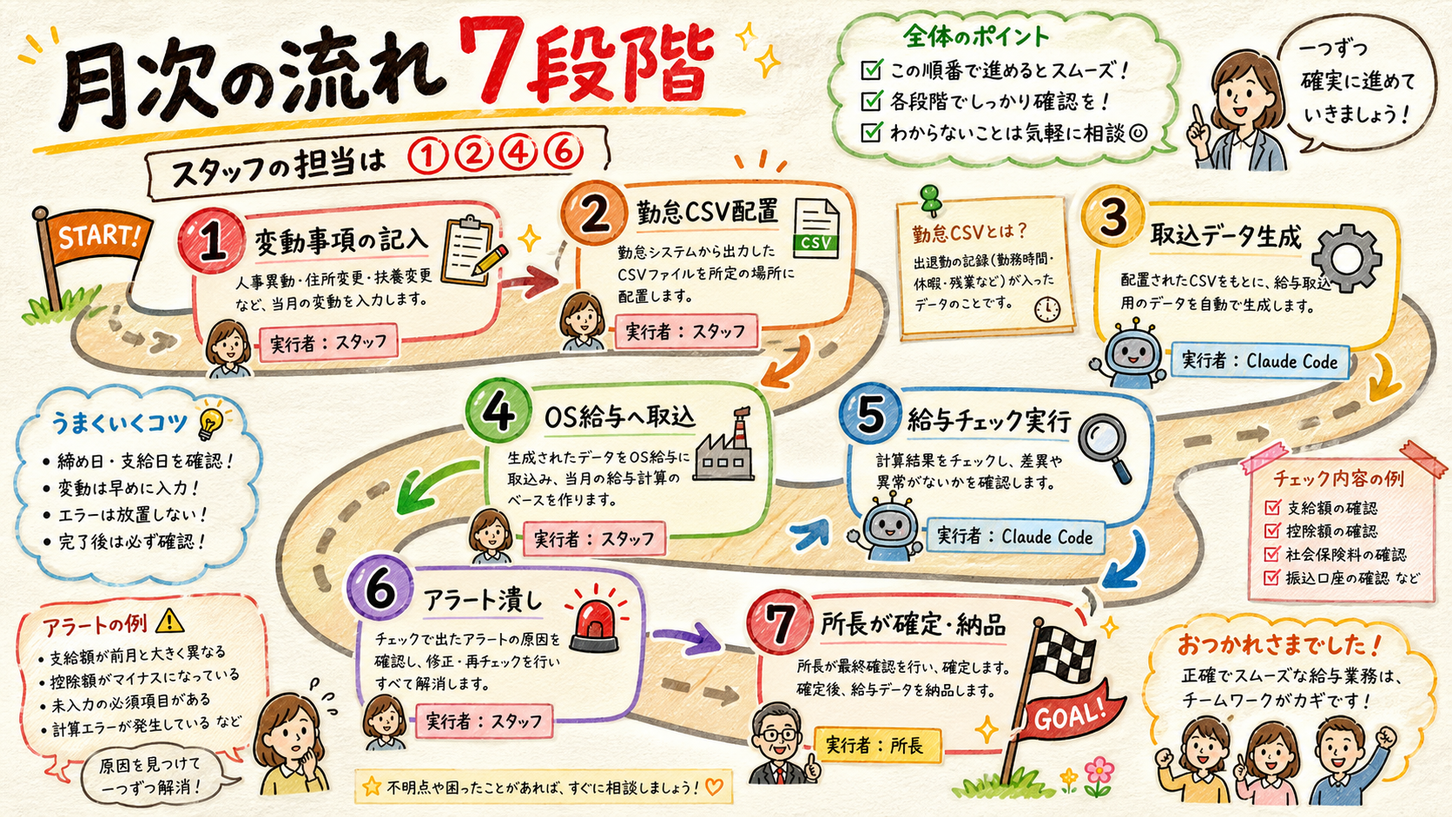
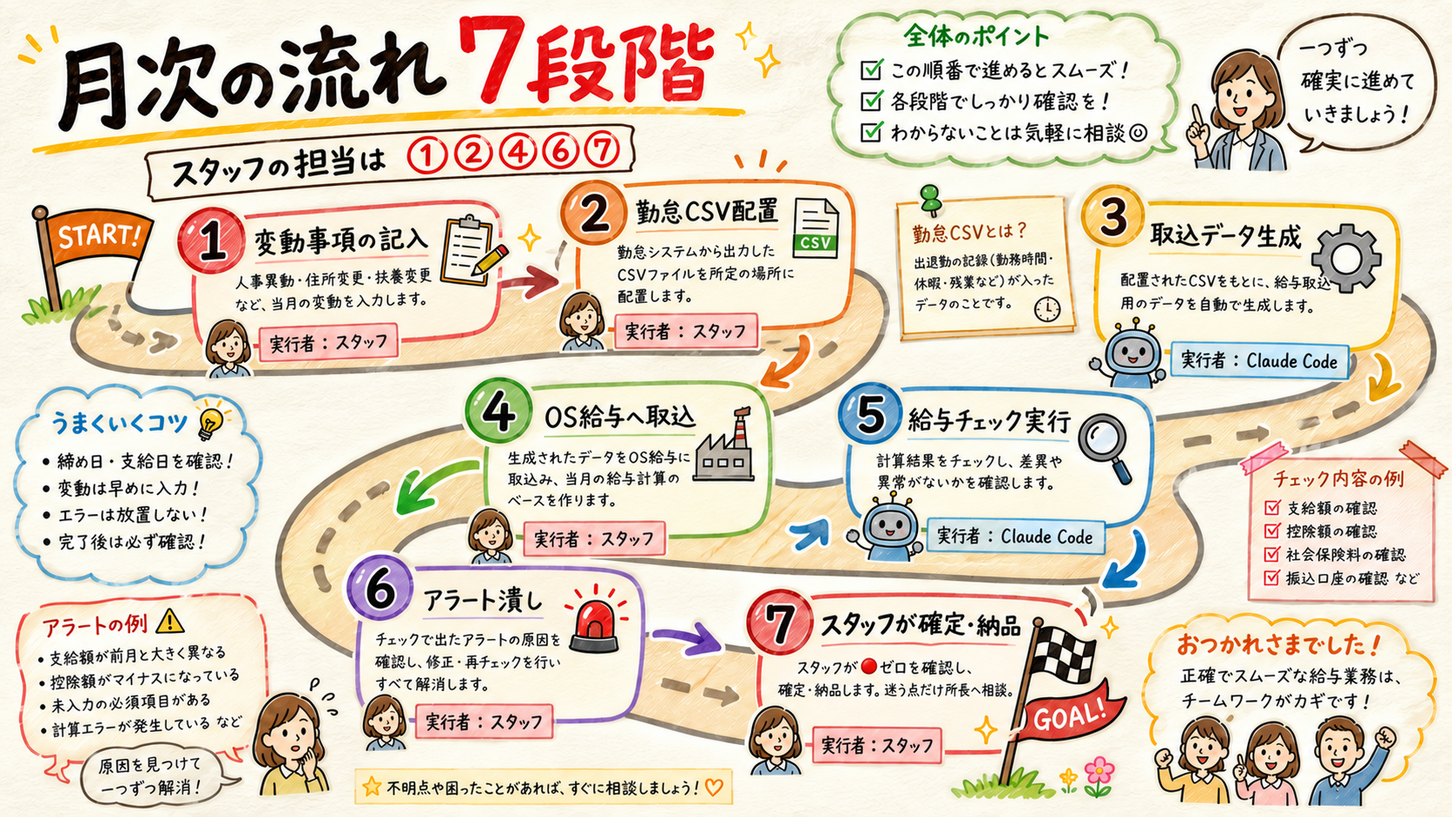
権限モデル反映: 確定・納品/入社台帳/会社設定はスタッフ裁量、所長はエンジンのみ。図4枚を現行担当へ更新
- 2026-08-31/09-01 所長方針（全体地図 §5.6）と 2026-09-17 改定（config はスタッフ裁量）を両ページに反映
- 承認は担当者の確認記録（🔴承認待ち）、給与計算報告書の生成拒否ゲート、複数法人の台帳指定を追記
- 旧版の担当名が描き込まれた図（全体像・入社の順番・7ステップ×2）を img2img で修正

diff --git a/claude-code-manual/index.html b/claude-code-manual/index.html
@@ -153,8 +153,8 @@
       <h2>TL;DR</h2>
       <ol>
         <li>作業は必ずデスクトップアプリの<strong>「Code」タブ</strong>で、<strong>担当会社のフォルダを開いてから</strong>始める。Chat タブではハーネスが動かない。</li>
-        <li>月次は 7 段階。スタッフの担当は「<strong>変動事項の記入 → 勤怠 CSV 配置 → チェック実行 → アラート潰し</strong>」の 4 つ。</li>
-        <li>🔴 の判断に迷ったら<strong>推測せず所長へエスカレーション</strong>。台帳の削除・設定ファイルの書き換えは禁止。</li>
+        <li>月次は 7 段階。<strong>確定・納品まで担当スタッフが回す</strong>（変動事項の記入 → 勤怠 CSV 配置 → 取込 → チェック依頼 → アラート潰し → 確定・納品）。所長が出るのは判断に迷う事項だけ。</li>
+        <li>🔴 の判断に迷ったら<strong>推測せず所長へエスカレーション</strong>。台帳の削除は禁止。エンジン（scripts/）はスタッフの Claude Code からは仕組み上書き換えられない。会社設定（config/company.yaml）は CC に頼んで更新してよい。</li>
       </ol>
     </div>
   </header>
@@ -163,7 +163,7 @@
     <h2><span class="num">01</span>ハーネスの役割 — 「計算」はしない、「確認」を支える</h2>
     <p class="sub">まず前提として、このツールが何をして・何をしないかを押さえます。</p>
     <figure>
-      <img src="images/concept-01-01.png" alt="ハーネスは伴走ツール — 計算はOS給与、確認を支えるのがハーネス、最終判断は人(所長)という役割分担の図解">
+      <img src="images/concept-01-01.png" alt="ハーネスは伴走ツール — 計算はOS給与、確認を支えるのがハーネス、最終判断は人という役割分担の図解">
       <figcaption>ハーネスは置き換えるのではなく「隣で支える伴走者」。計算は OS 給与、最終判断は人が担う</figcaption>
     </figure>
     <p>給与計算そのものは、これまでどおり<strong>給与計算ソフト（OS給与）</strong>が行います。ハーネスの役割は、その結果を<strong>チェック（レビュー）</strong>することと、人の記憶に頼りがちな管理（変動事項の反映確認・有給・随時改定）を<strong>台帳で支える</strong>ことです。</p>
@@ -173,8 +173,8 @@
       <tbody>
         <tr><td>OS給与</td><td>給与計算の本体（支給額・控除額の計算）</td></tr>
         <tr><td>ハーネス（Claude Code）</td><td>計算結果のチェック、変動事項・有給・随時改定の台帳管理、アラート出力</td></tr>
-        <tr class="pick"><td>スタッフ（あなた）</td><td>変動事項の記入、勤怠データの配置、チェックの実行、アラートの確認</td></tr>
-        <tr><td>所長</td><td>判断が必要な事項の決定、最終確定・納品</td></tr>
+        <tr class="pick"><td>スタッフ（あなた）</td><td>変動事項の記入、従業員台帳の作成・更新（CCに依頼）、勤怠データの配置、チェックの実行、アラートの確認、変動の確認記録、確定・納品</td></tr>
+        <tr><td>所長</td><td>判断に迷う事項の決定（エスカレーション対応）と、エンジン（scripts/）の保守。月次のルーティンや会社設定の更新には関与しない</td></tr>
       </tbody>
     </table>
   </section>
@@ -199,7 +199,7 @@
     <ul>
       <li>Claude デスクトップアプリを起動する</li>
       <li>上部の「<strong>Code</strong>」タブを選ぶ</li>
-      <li><strong>担当会社のフォルダ</strong>を開く（最近開いたフォルダから選べます）</li>
+      <li><strong>担当会社のフォルダ</strong>を開く（最近開いたフォルダから選べます）。開く場所は顧問先フォルダの <strong>07.給与・賞与</strong>（CLAUDE.md が置いてある階層）。その中の「◯◯-payroll-db」を開いても会社ルールは効きません</li>
       <li>画面にいま開いているフォルダ名が出ているので、<strong>会社名が正しいか確認</strong>してから作業を始める</li>
     </ul>
   </section>
@@ -208,7 +208,7 @@
     <h2><span class="num">03</span>初回だけの準備 — フォルダを開いて「信頼」する</h2>
     <p class="sub">各会社フォルダを初めて開くときだけ、1 回だけの確認があります。</p>
     <p>初めて会社フォルダを開くと、「このワークスペースを信頼しますか？」という確認画面が表示されます。ここで<strong>「信頼する」を選んでください</strong>。これはフォルダに入っているチェック機能・安全装置を有効にするための確認で、許可しないとハーネスが動きません。表示されるのは会社フォルダごとに初回の 1 回だけです。</p>
-    <div class="callout"><p><strong>1 社 1 フォルダが鉄則です。</strong>A 社の作業は A 社のフォルダで、B 社の作業は B 社のフォルダで行います。会社をまたいで作業すると、顧問先間の情報が混ざる事故につながります。</p></div>
+    <div class="callout"><p><strong>1 社 1 フォルダが鉄則です。</strong>A 社の作業は A 社のフォルダで、B 社の作業は B 社のフォルダで行います。会社をまたいで作業すると、顧問先間の情報が混ざる事故につながります。</p><p>1 つの顧問先に法人が 2 つある場合（例: 医療法人と関連会社）は、同じフォルダの中に法人ごとの台帳「◯◯-payroll-db」が並んでいます。依頼するときは<strong>「Kwork の 8 月分をチェックして」のように法人名を添えてください</strong>。両方の法人が 🔴 ゼロになって初めて、その顧問先の月次は完了です。</p></div>
     <p>アプリへのログインや契約プランは事務所側で設定済みです。確認画面が何度も出る・エラーで先に進めない場合は、自分で対処せず所長へ連絡してください。</p>
   </section>
 
@@ -216,8 +216,8 @@
     <h2><span class="num">04</span>月次の流れ — 7 段階を順番に</h2>
     <p class="sub">1 か月の給与業務は、この 7 段階で回します（詳細の正本は <code class="inline">docs/月次運用フロー.md</code>）。</p>
     <figure>
-      <img src="images/concept-04-01.png" alt="変動事項の記入から所長の確定・納品まで、月次給与業務7段階のロードマップ図解">
-      <figcaption>月次の 7 段階ロードマップ。スタッフの担当は ①②④⑥、③⑤は Claude Code、⑦は所長</figcaption>
+      <img src="images/concept-04-01.png" alt="変動事項の記入から確定・納品まで、月次給与業務7段階のロードマップ図解">
+      <figcaption>月次の 7 段階ロードマップ。③⑤は Claude Code、それ以外は担当スタッフ。⑦の確定・納品も担当スタッフが行い、所長は迷ったときの相談先</figcaption>
     </figure>
     <table class="table">
       <thead><tr><th>段階</th><th>実行者</th><th>やること</th></tr></thead>
@@ -227,13 +227,13 @@
         <tr><td>[3]</td><td>Claude Code</td><td>取込用データを生成する（スクリプトが自動で処理）</td></tr>
         <tr><td>[4]</td><td>スタッフ</td><td>生成されたデータを <strong>OS給与へ一括取込</strong>（マスタ変更は画面から入力）</td></tr>
         <tr class="pick"><td>[5]</td><td>Claude Code</td><td><strong>給与チェックを実行</strong>し、アラート一覧を出力する</td></tr>
-        <tr><td>[6]</td><td>スタッフ + 所長</td><td><strong>アラート一覧_YYYY-MM.xlsx</strong> の 🔴 🟡 📋 と照会事項をすべて潰す</td></tr>
-        <tr><td>[7]</td><td>所長</td><td>確定・納品</td></tr>
+        <tr><td>[6]</td><td>スタッフ</td><td><strong>アラート一覧_YYYY-MM.xlsx</strong> の 🔴 🟡 📋 と照会事項をすべて潰す（来月以降に効く変動は、内容を確認した担当者が承認欄に名前と日付を記録）。判断に迷うものだけ所長へ</td></tr>
+        <tr><td>[7]</td><td>担当スタッフ</td><td>🔴 ゼロを確認して確定・納品。納品用の<strong>給与計算報告書</strong>は CC に頼むと生成されるが、🔴 が 1 件でも残ると作られない</td></tr>
       </tbody>
     </table>
     <p>入社・退職があった月は、次の 2 点だけ特別扱いです:</p>
     <ul>
-      <li><strong>入社</strong>: まず所長に台帳作成を依頼 → 変動事項シートに「入社」行を記入 → OS給与にマスタ登録</li>
+      <li><strong>入社</strong>: まず雇用契約書（労働条件通知書）を CC に渡して従業員台帳を作成（所長の事前確認は不要。契約内容に迷う点があるときだけ相談） → 変動事項シートに「入社」行を記入 → OS給与にマスタ登録</li>
       <li><strong>退職</strong>: 台帳は<strong>絶対に削除しない</strong>。状態を「退職」に変えるだけ（源泉徴収票・離職票の根拠として保管し続けます）</li>
     </ul>
   </section>
@@ -242,7 +242,7 @@
     <h2><span class="num">05</span>スタッフがやる操作 — 頼み方とコマンド</h2>
     <p class="sub">操作は「日本語で頼む」が基本です。コマンドは覚えなくて構いません。</p>
     <p>Code タブで会社フォルダを開いたら、やってほしいことをそのまま日本語で入力します。例:</p>
-    <div class="quote">「2026年8月分の給与チェックを実行して」<br>「変動事項シートの内容を台帳に取り込んで」</div>
+    <div class="quote">「2026年8月分の給与チェックを実行して」<br>「変動事項シートの内容を台帳に取り込んで」<br>「◯◯さんの入社、確認したので記録して」（承認欄に名前と日付が入る）<br>「2026年8月分を確定して」「2026年8月分の給与計算報告書を作って」</div>
     <p>Claude Code が対応するスクリプトを実行し、結果と次にやることを日本語で返します。参考までに、裏で動いている代表的なコマンドは次の 2 つです:</p>
     <pre><span class="c"># 月次の給与チェック（all のほか payroll / ledger 単体も可）</span>
 <span class="n">PAYROLL_DB</span>=&lt;台帳パス&gt; <span class="k">ruby</span> scripts/payroll_check.rb <span class="s">all 2026-08</span>
@@ -265,7 +265,7 @@
         <tr><td class="lv-h">🔴 要対応</td><td>金額や手続きに影響がある指摘</td><td>内容を確認。<strong>自分で判断できるものだけ</strong>対応し、迷ったら所長へエスカレーション</td></tr>
         <tr><td class="lv-m">🟡 注意</td><td>読んで確認すればよい注意喚起</td><td>スタッフが内容を確認して消し込む</td></tr>
         <tr><td class="lv-m">📋 未整備</td><td>台帳側のデータ不足</td><td>スタッフが不足データを台帳・シートに補充する</td></tr>
-        <tr><td>照会</td><td>顧客・所内に確認が必要な事項</td><td>スタッフが確認して回答を記入。<strong>来月以降に影響する内容なら所長の承認が必須</strong></td></tr>
+        <tr><td>照会</td><td>顧客・所内に確認が必要な事項</td><td>スタッフが確認して回答を記入し、変動事項シートにも登録。<strong>来月以降に影響する内容は、内容を確認した担当者の記録（名前＋日付）が承認欄に入るまで 🔴「承認待ち」が残る</strong>（承認者は担当スタッフでよい。迷うものだけ所長へ）</td></tr>
       </tbody>
     </table>
   </section>
@@ -279,7 +279,7 @@
     </figure>
     <ul>
       <li>🔴 の内容が<strong>自分では判断できない</strong>とき</li>
-      <li>照会の結果、<strong>昇給・入退社・休職・育休など来月以降に影響する内容</strong>だと分かったとき（所長の承認が必須）</li>
+      <li>照会の結果分かった<strong>昇給・入退社・休職・育休などの内容を、自分では確認しきれない・妥当か迷う</strong>とき（確認できたなら自分で承認欄に記録してよい）</li>
       <li>変動事項シートの<strong>種別リストにない出来事</strong>が起きたとき</li>
       <li>エラーや確認画面が<strong>繰り返し出て先に進めない</strong>とき</li>
     </ul>
@@ -293,10 +293,10 @@
       <thead><tr><th>禁止事項</th><th>理由</th></tr></thead>
       <tbody>
         <tr><td>Chat / Cowork タブで給与業務をする</td><td>会社のルール・チェック機能を通らない回答が返り、誤った処理の元になる</td></tr>
-        <tr><td>設定ファイル（<code class="inline">config/company.yaml</code> など）を書き換える</td><td>会社の就業規則・料率のパラメータ。変更は所長の判断事項</td></tr>
+        <tr><td>エンジン（<code class="inline">scripts/</code> 配下）を書き換える</td><td>チェックの仕組みそのもの。変更は所長の判断事項（スタッフの Claude Code からは編集が拒否される設定になっている。拒否されたら所長へ）。会社設定（<code class="inline">config/company.yaml</code>）は CC に頼んで更新してよく、値の解釈に迷うときだけ所長へ相談</td></tr>
         <tr><td>退職者の台帳を削除する</td><td>源泉徴収票・離職票の根拠として永続保管が必要。状態を「退職」に変えるだけにする</td></tr>
         <tr><td>別会社のフォルダで作業・実行する</td><td>顧問先間の情報混在につながる。1 社 1 フォルダが鉄則</td></tr>
-        <tr><td>アラートが残ったまま確定依頼を出す</td><td>[6] のアラート潰しが完了条件。未消化のまま [7] に進まない</td></tr>
+        <tr><td>🔴 が残ったまま確定・納品する</td><td>[6] のアラート潰しが完了条件。🔴 が残っていると給与計算報告書は生成されない（仕組みで止まる）</td></tr>
       </tbody>
     </table>
   </section>
@@ -310,7 +310,7 @@
     </ol>
   </div>
 
-  <footer>題材: projects/給与計算ハーネス/docs（月次運用フロー.md・全体地図_対応方針.md・所長向けハーネス判断ガイド.md）+ Claude Desktop 公式ドキュメント（2026-08-20 確認）｜作成: 2026-08-20</footer>
+  <footer>題材: projects/給与計算ハーネス/docs（月次運用フロー.md・全体地図_対応方針.md §5.6 権限モデル・所長向けハーネス判断ガイド.md）+ Claude Desktop 公式ドキュメント（2026-08-20 確認）｜作成: 2026-08-20／更新: 2026-09-17（権限モデル反映: 確定・納品・入社台帳作成・会社設定はスタッフ裁量、承認は担当者の確認記録、所長のみはエンジン、複数法人の台帳指定）</footer>
 
 </div>
 </body>

diff --git a/payroll-harness/index.html b/payroll-harness/index.html
@@ -174,7 +174,7 @@
       <div class="step"><span class="no">実行A</span><div class="what">取込データ生成 → OS給与へ</div><div class="who">CC＋人が取込</div></div>
       <div class="step"><span class="no">計算</span><div class="what">OS給与で計算・一覧表出力</div><div class="who">人</div></div>
       <div class="step"><span class="no">確認B</span><div class="what">11系統の機械チェック</div><div class="who">CC</div></div>
-      <div class="step"><span class="no">確定</span><div class="what">🔴ゼロを確認して確定</div><div class="who">所長</div></div>
+      <div class="step"><span class="no">確定</span><div class="what">🔴ゼロを確認して確定・納品</div><div class="who">担当スタッフ</div></div>
     </div>
     <p><b>実行ハーネス（A）</b>が勤怠と変動事項から給与システムへの取込データを作り、<b>確認ハーネス（B）</b>が計算結果（支給控除一覧表）を台帳と<b>独立に</b>突き合わせます。作る側と検算する側を分けているのは、同じ場所で作って確かめると間違いに気づけないからです。</p>
     <table class="table">
@@ -198,11 +198,11 @@
     <table class="table">
       <thead><tr><th>台帳</th><th>入っている情報</th><th>誰がいつ更新するか</th></tr></thead>
       <tbody>
-        <tr><td>従業員台帳（employees/）</td><td>基本情報・給与の内訳・社会保険（標準報酬・取得/喪失日・決定履歴）・税区分・住民税</td><td>入社時に所長がCCへ依頼して作成。変化はシート経由で反映。退職しても消さない（手続きの根拠のため永続保管）</td></tr>
+        <tr><td>従業員台帳（employees/）</td><td>基本情報・給与の内訳・社会保険（標準報酬・取得/喪失日・決定履歴）・税区分・住民税</td><td>入社時にスタッフが雇用契約書（労働条件通知書）をCCに渡して作成（所長の事前確認は不要。不備は機械チェックが止める）。変化はシート経由で反映。退職しても消さない（手続きの根拠のため永続保管）</td></tr>
         <tr class="pick"><td>変動事項台帳（events）</td><td>昇給・入退社・休職・手当変更など「先月と変わること」を予定額つきで構造化した記録</td><td><b>変動事項入力シートからCCが取込</b>。ここに書かれた予定と実際の給与を機械が金額まで照合する</td></tr>
         <tr><td>月次記録（monthly/）</td><td>支給控除一覧表のミラー（支給・控除・勤怠・差引支給額・振込合計）</td><td>計算後にCCが転記。前月との差分比較や社保・住民税の検算の材料になる</td></tr>
         <tr><td>有給管理簿</td><td>付与履歴・取得累計・残日数・時効・年5日義務の進捗</td><td>月次確定時に更新。残日数の整合や時効消滅を機械が検算</td></tr>
-        <tr><td>会社設定（config/）</td><td>賃金規程のパラメータ（所定労働時間・手当の扱い・丸め方）と法令値（料率・最低賃金・標準報酬表）</td><td>所長＋CC。料率や最低賃金の改定月は機械がカレンダーで監視</td></tr>
+        <tr><td>会社設定（config/）</td><td>賃金規程のパラメータ（所定労働時間・手当の扱い・丸め方）と法令値（料率・最低賃金・標準報酬表）</td><td>スタッフがCCに依頼して更新（料率改定・規程変更の反映・「要確認」の確定）。値の解釈に迷うときは所長へ相談。料率や最低賃金の改定月は機械がカレンダーで監視</td></tr>
       </tbody>
     </table>
     <div class="callout"><p><strong>「書いていない変化は存在しない」が原則。</strong>口頭連絡や記憶で処理された変化は台帳に残らず、翌月以降のチェックが働きません。だから「とにかくシートに書く」がすべての起点になります。</p></div>
@@ -210,7 +210,7 @@
 
   <section>
     <h2><span class="num">03</span>スタッフにお願いする入力・更新</h2>
-    <p class="sub">日々の入力はこれだけです。難しい判定はすべて機械と所長の側にあります。</p>
+    <p class="sub">日々の入力はこれだけです。難しい判定は機械が止め、判断に迷うものだけ所長へ回します。</p>
     <figure>
       <img src="images/concept-03-01.png" alt="起点は変動事項入力シート（グラレコ）">
       <figcaption>起点は変動事項入力シート。CC＝Claude Code（依頼を受けてシートを台帳へ取り込む）</figcaption>
@@ -227,9 +227,9 @@
     </table>
     <div class="callout warn">
       <p><strong>種別リストにない出来事はシートに書かず、所長へ相談してください。</strong>（例: 扶養の増減・手当の新設や廃止・勤務時間の変更）無理に近い種別へ当てはめると機械が誤った照合をします。</p>
-      <p><strong>特に「固定給に触る変化」（手当の新設・廃止・通勤手当の変更・時給単価の変更など）は、相談中でも社会保険の随時改定（月変）の追跡対象です。</strong>所長が台帳へ直接登録し、3ヶ月の監視に載ります。握りつぶしは厳禁です。</p>
+      <p><strong>特に「固定給に触る変化」（手当の新設・廃止・通勤手当の変更・時給単価の変更など）は、相談中でも社会保険の随時改定（月変）の追跡対象です。</strong>所長へ相談のうえ台帳へ登録し、3ヶ月の監視に載せます。握りつぶしは厳禁です。</p>
     </div>
-    <div class="callout"><p><strong>入社だけは順番が逆です。</strong>①先に所長へ連絡 → 所長がCCに依頼して従業員台帳を作成 → ②台帳ができたらシートに「入社」を記入（台帳にない人はドロップダウンに出ない＝仕組みで順番が守られます）。</p></div>
+    <div class="callout"><p><strong>入社だけは順番が逆です。</strong>①先にスタッフがCCに雇用契約書を渡して従業員台帳を作成（所長の事前確認は不要。契約内容に迷う点があるときだけ相談） → ②台帳ができたらシートに「入社」を記入（台帳にない人はドロップダウンに出ない＝仕組みで順番が守られます）。</p></div>
   </section>
 
   <section>
@@ -237,7 +237,7 @@
     <p class="sub">例: 6月分給与（6月勤務・7月支給）の1ヶ月。</p>
     <figure>
       <img src="images/concept-04-01.png" alt="月次の流れ7ステップ（グラレコ）">
-      <figcaption>月次の7ステップ。[6]は🔴ゼロになるまで[5]へ戻って繰り返す</figcaption>
+      <figcaption>月次の7ステップ。[6]は🔴ゼロになるまで[5]へ戻って繰り返す。確定・納品まで担当スタッフ。所長は迷ったときの相談先</figcaption>
     </figure>
     <table class="table">
       <thead><tr><th>#</th><th>タイミング</th><th>担当</th><th>やること</th></tr></thead>
@@ -245,10 +245,10 @@
         <tr><td>1</td><td>月の途中（都度）</td><td>スタッフ</td><td>変動事項をシートに書き溜める</td></tr>
         <tr><td>2</td><td>締め後（月初）</td><td>スタッフ</td><td>勤怠CSVを所定フォルダへ置く</td></tr>
         <tr><td>3</td><td>締め後</td><td>スタッフ→CC→人</td><td>取込データ生成を依頼し、できたファイルをOS給与へ一括取込（時間形式は60進数）</td></tr>
-        <tr><td>4</td><td>該当月のみ</td><td>人（所長承認）</td><td>昇給・入退社などのマスタ変更をOS給与の画面で実施（CCが対象一覧を出す）</td></tr>
+        <tr><td>4</td><td>該当月のみ</td><td>人（スタッフ）</td><td>昇給・入退社などのマスタ変更をOS給与の画面で実施（CCが対象一覧を出す）</td></tr>
         <tr><td>5</td><td>計算後</td><td>スタッフ→CC</td><td>支給控除一覧表を置いてチェックを依頼。アラート一覧が出力される</td></tr>
-        <tr class="pick"><td>6</td><td>チェック後</td><td>スタッフ＋所長</td><td>🔴を全件潰す・照会事項に回答（来月以降に効く回答は所長承認必須）。直したら再計算→再チェック</td></tr>
-        <tr><td>7</td><td>最後</td><td>所長</td><td>🔴ゼロ＋照会全回答を確認して確定・納品。台帳の月次記録・有給管理簿・消込が更新される</td></tr>
+        <tr class="pick"><td>6</td><td>チェック後</td><td>スタッフ</td><td>🔴を全件潰す・照会事項に回答（来月以降に効く変動は、内容を確認した担当者が承認欄に名前と日付を記録。判断に迷うものだけ所長へ）。直したら再計算→再チェック</td></tr>
+        <tr><td>7</td><td>最後</td><td>担当スタッフ</td><td>🔴ゼロ＋照会全回答を確認して確定・納品。台帳の月次記録・有給管理簿・消込が更新される。納品用の給与計算報告書はCCが生成するが、🔴が1件でも残ると作られない</td></tr>
       </tbody>
     </table>
   </section>
@@ -264,12 +264,12 @@
       <thead><tr><th>記号</th><th>意味</th><th>スタッフの動き</th></tr></thead>
       <tbody>
         <tr class="pick"><td>🔴 要対応</td><td>給与が間違っている可能性。内容欄に「何を・なぜ・どうすれば」が書いてある</td><td><b>全件「完了」になるまで絶対に確定しない。</b>読んでも判断できなければ「エスカレーション」にして所長へ</td></tr>
-        <tr><td>🟡 注意</td><td>確認すればよいもの（例: データ不足で一部の判定が保留）</td><td>内容を確認し、必要なら補完・所長相談</td></tr>
-        <tr><td>📋 未整備</td><td>台帳側のデータ不足（チェックがまだ効かせられない項目）</td><td>手が空いたときに整備。増減は所長が把握</td></tr>
+        <tr><td>🟡 注意</td><td>確認すればよいもの（例: データ不足で一部の判定が保留）</td><td>内容を確認し、必要なら補完。迷えば所長相談</td></tr>
+        <tr><td>📋 未整備</td><td>台帳側のデータ不足（チェックがまだ効かせられない項目）</td><td>手が空いたときに整備（従業員台帳の補充もスタッフ裁量）</td></tr>
         <tr><td>ℹ 参考</td><td>機械が「問題なし」と判断した根拠の記録</td><td>読む必要が出たときだけ見ればOK</td></tr>
       </tbody>
     </table>
-    <p><b>シート2「照会事項」</b>は、先月と違う点のうちシートに事前登録がなかったもの。顧客・所内に確認して回答と根拠を記入し、確認が取れたら<b>変動事項シートにも登録</b>します（来月から自動照合に変わります）。昇給・入退社・休職・育休など<b>来月以降にも影響する回答は所長の承認が必須</b>です。</p>
+    <p><b>シート2「照会事項」</b>は、先月と違う点のうちシートに事前登録がなかったもの。顧客・所内に確認して回答と根拠を記入し、確認が取れたら<b>変動事項シートにも登録</b>します（来月から自動照合に変わります）。昇給・入退社・休職・育休など<b>来月以降にも影響する変動は、内容を確認した担当者の記録（名前＋日付）が承認欄に入るまで🔴「承認待ち」が残ります</b>（承認者は担当スタッフでよい。誰がいつ確認したかを残すのが目的。判断に迷うものだけ所長へ）。</p>
     <div class="callout"><p><strong>確定の条件 = 🔴ゼロ ＋ 照会全回答。</strong>照会への回答は当月の検証の代わりにはなりません。あくまで「来月から正しく守るための取り込み」です。</p></div>
   </section>
 
@@ -301,10 +301,10 @@
 
   <section>
     <h2><span class="num">07</span>やってはいけないこと・この仕組みの考え方</h2>
-    <p class="sub">禁止事項は4つだけ。どれも「機械が守れなくなる」行為です。</p>
+    <p class="sub">禁止事項は4つだけ。どれも「機械が守れなくなる」行為です。権限の覚え方は1行:「会社ごとの事実と設定」はスタッフ、「エンジン（仕組みそのもの）」は所長。</p>
     <div class="callout warn">
       <p><strong>① 🔴が残ったまま確定しない</strong>（🔴は「給与が間違っているかもしれない」のサイン）</p>
-      <p><strong>② 台帳ファイルを直接編集しない</strong>（更新は必ずシート→CC経由）</p>
+      <p><strong>② 台帳ファイルを直接編集しない</strong>（更新は必ずシート→CC経由。会社設定（company.yaml・config）はCCに頼んで更新してよく、値に迷うときは所長へ相談。エンジン（scripts）だけはスタッフのCCから仕組み上編集できない）</p>
       <p><strong>③ シートに書かずに口頭・記憶で処理しない</strong>（書かれない変化は検証されない）</p>
       <p><strong>④ アラートの意味が分からないまま「完了」にしない</strong>（分からなければエスカレーション。それが正しい操作）</p>
     </div>
@@ -321,7 +321,7 @@
     </ol>
   </div>
 
-  <footer>正本: 給与計算ハーネス docs/月次運用フロー.md・給与検証スキーマ.md・給与確定前チェック項目台帳.md（2026-08-16 生成）</footer>
+  <footer>正本: 給与計算ハーネス docs/月次運用フロー.md・給与検証スキーマ.md・給与確定前チェック項目台帳.md・全体地図_対応方針.md §5.6 権限モデル（2026-08-16 生成／2026-09-17 権限モデル反映: 確定・納品・入社台帳作成・会社設定はスタッフ裁量、承認は担当者の確認記録、所長のみはエンジン）</footer>
 
 </div>
 </body>
